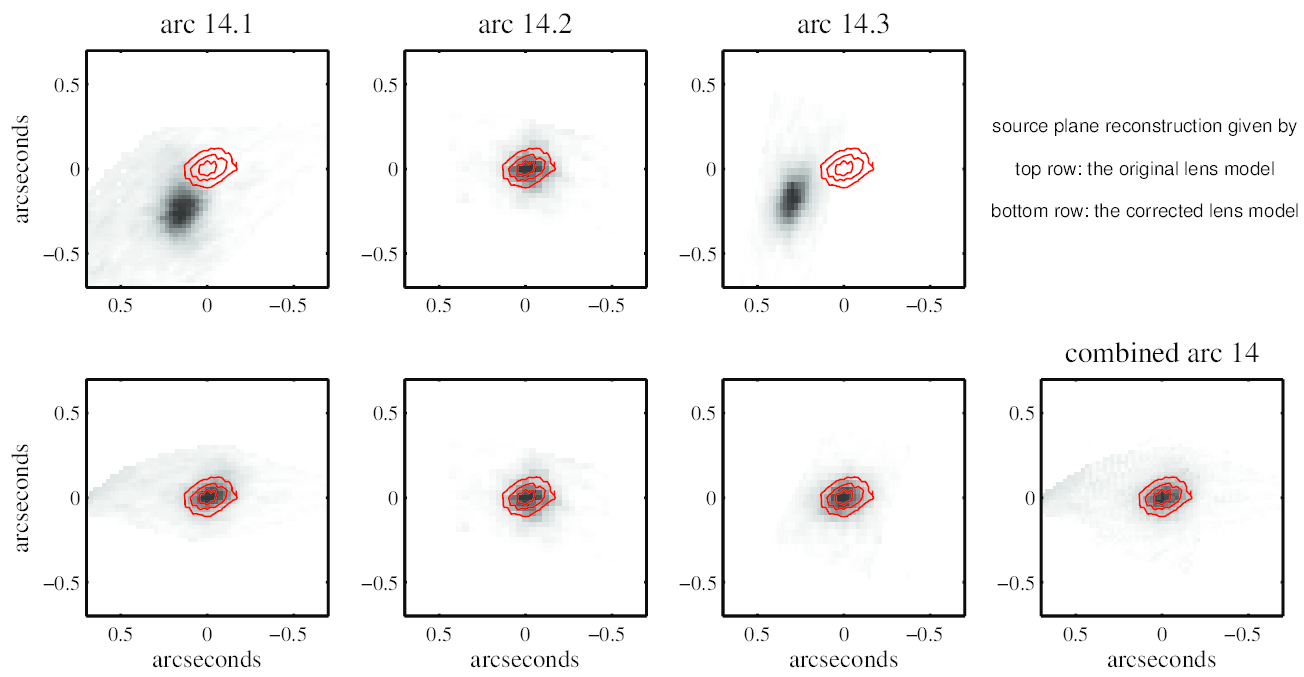
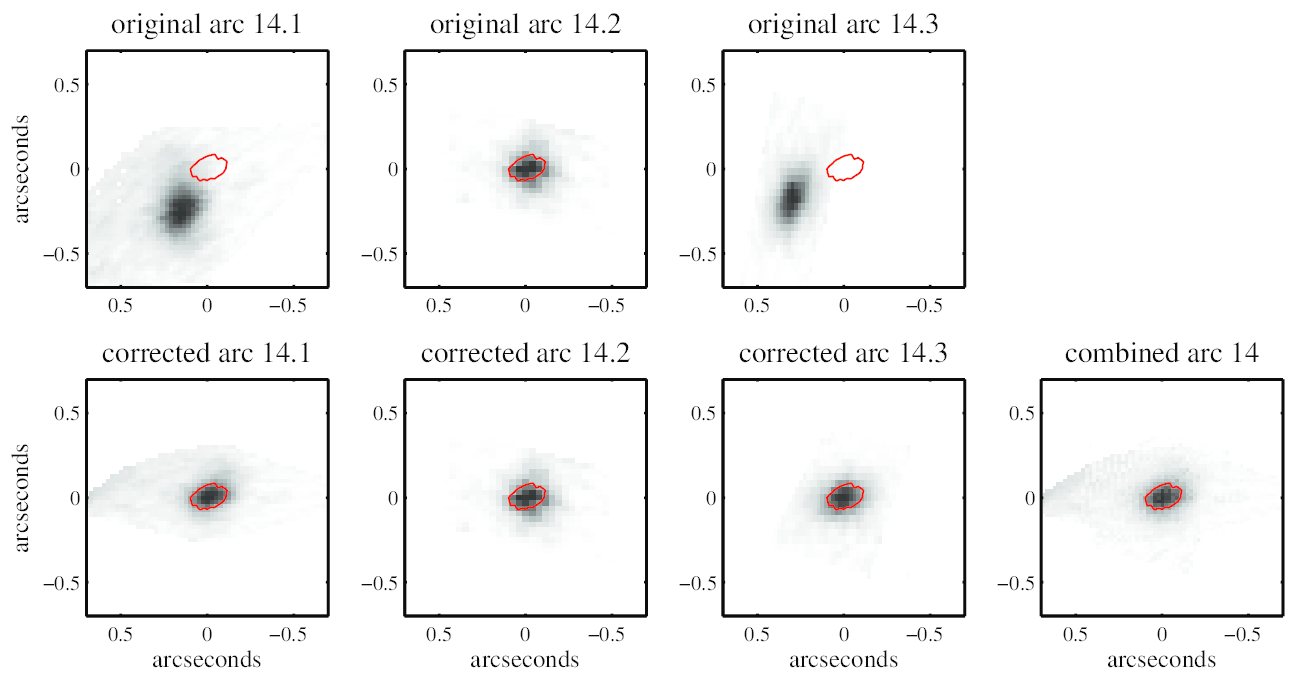
update the 2row plot

diff --git a/cl01.MACS0717/srcpix_durows.m b/cl01.MACS0717/srcpix_durows.m
@@ -14,7 +14,7 @@ mat_dir= 'z1.855_sharon_deflect';      % the folder containing .mat files
 mat_extsn='_deflect.mat';
 corrdefl_dir=  'CorrDefl_imgF140W_z1.855_sharon/durows';
 diary(fullfile(corrdefl_dir,[sys,'_durows_fin.diary']));
-pic_name=[sys '_durows_fin.ps'];
+pic_name=[sys '_durows_fin.eps'];
 
 LMtot = importdata('z1.855_sharon_LMkgphi.dat', ' ', 2);
 LMvals = LMtot.data(:,2:end);
@@ -114,6 +114,7 @@ axis xy
 colorbar('off')
 colormap(flipud(gray))
 xlabel('arcseconds','FontSize',lab_fontsize);
+title(['corrected arc ',sys,'.',num2str(num)]);
 set(gca,'FontSize',axes_fontsize,'LineWidth',lw_gca,'XDir','Reverse'); 
 axis(axial_range);
 
@@ -123,7 +124,7 @@ imagescwithnan(srcpix0_da,srcpix0_db,srcpix0_SB,jet,[1 1 1],true)
 axis xy
 colorbar('off')
 colormap(flipud(gray))
-title(['arc ',sys,'.',num2str(num)]);
+title(['original arc ',sys,'.',num2str(num)]);
 set(gca,'FontSize',axes_fontsize,'LineWidth',lw_gca,'XDir','Reverse'); 
 axis(axial_range);
 
@@ -196,13 +197,14 @@ srcpix1_SB= src_cnt_pix./times_pix;
 srcpix1_da= vec_a-ref_a;
 srcpix1_db= vec_b-ref_b;
 
-%------------ sub-plotting
+%------------ sub-plotting      post
 subplot(2,num_colm,num+num_colm);
 imagescwithnan(srcpix1_da,srcpix1_db,srcpix1_SB,jet,[1 1 1],true)
 axis xy
 colorbar('off')
 colormap(flipud(gray))
 xlabel('arcseconds','FontSize',lab_fontsize);
+title(['corrected arc ',sys,'.',num2str(num)]);
 set(gca,'FontSize',axes_fontsize,'LineWidth',lw_gca,'XDir','Reverse'); 
 axis(axial_range);
 
@@ -233,13 +235,13 @@ srcpix1_SB= src_cnt_pix./times_pix;
 srcpix1_da= vec_a-ref_a;
 srcpix1_db= vec_b-ref_b;
 
-%------------ sub-plotting
+%------------ sub-plotting      pre
 subplot(2,num_colm,num);
 imagescwithnan(srcpix1_da,srcpix1_db,srcpix1_SB,jet,[1 1 1],true)
 axis xy
 colorbar('off')
 colormap(flipud(gray))
-title(['arc ',sys,'.',num2str(num)]);
+title(['original arc ',sys,'.',num2str(num)]);
 set(gca,'FontSize',axes_fontsize,'LineWidth',lw_gca,'XDir','Reverse'); 
 axis(axial_range);
 
@@ -312,7 +314,7 @@ srcpix2_SB = src_cnt_pix./times_pix;
 srcpix2_da= vec_a-ref_a;
 srcpix2_db= vec_b-ref_b;
 
-%------------ sub-plotting
+%------------ sub-plotting      post
 subplot(2,num_colm,num+num_colm);
 imagescwithnan(srcpix2_da,srcpix2_db,srcpix2_SB,jet,[1 1 1],true)
 axis xy
@@ -320,11 +322,12 @@ colorbar('off')
 colormap(flipud(gray))
 xlabel('arcseconds','FontSize',lab_fontsize);
 ylabel('arcseconds','FontSize',lab_fontsize);
+title(['corrected arc ',sys,'.',num2str(num)]);
 set(gca,'FontSize',axes_fontsize,'LineWidth',lw_gca,'XDir','Reverse'); 
 axis(axial_range);
 
 %-------------------------------------------------------------------------------
-% the following subsection is for post-tweak img
+% the following subsection is for pre-tweak img
 src_a=src0_a;
 src_b=src0_b;
 [vec_a,N_a]=MakeVecCtr(src_a,src_ctr(num,1),binsize_a);
@@ -350,14 +353,14 @@ srcpix2_SB = src_cnt_pix./times_pix;
 srcpix2_da= vec_a-ref_a;
 srcpix2_db= vec_b-ref_b;
 
-%------------ sub-plotting
+%------------ sub-plotting      pre
 subplot(2,num_colm,num);
 imagescwithnan(srcpix2_da,srcpix2_db,srcpix2_SB,jet,[1 1 1],true)
 axis xy
 colorbar('off')
 colormap(flipud(gray))
 ylabel('arcseconds','FontSize',lab_fontsize);
-title(['arc ',sys,'.',num2str(num)]);
+title(['original arc ',sys,'.',num2str(num)]);
 set(gca,'FontSize',axes_fontsize,'LineWidth',lw_gca,'XDir','Reverse'); 
 axis(axial_range);
 
@@ -430,37 +433,38 @@ axis(axial_range);
 %% over-plottiong SB isophote contours on every panel except the one of # num_colm
 da_up=2; db_up=2;
 sb_isophote=[75, 120, 170];
-sb_contour1=contourc(srcpix_tot_da,srcpix_tot_db,srcpix_tot_SB,[sb_isophote(1) sb_isophote(1)]);
+% sb_contour1=contourc(srcpix_tot_da,srcpix_tot_db,srcpix_tot_SB,[sb_isophote(1) sb_isophote(1)]);
 sb_contour2=contourc(srcpix_tot_da,srcpix_tot_db,srcpix_tot_SB,[sb_isophote(2) sb_isophote(2)]);
-sb_contour3=contourc(srcpix_tot_da,srcpix_tot_db,srcpix_tot_SB,[sb_isophote(3) sb_isophote(3)]);
-indx1=find(sb_contour1(1,:)<da_up & sb_contour1(2,:)<db_up);
+% sb_contour3=contourc(srcpix_tot_da,srcpix_tot_db,srcpix_tot_SB,[sb_isophote(3) sb_isophote(3)]);
+% indx1=find(sb_contour1(1,:)<da_up & sb_contour1(2,:)<db_up);
 indx2=find(sb_contour2(1,:)<da_up & sb_contour2(2,:)<db_up);
-indx3=find(sb_contour3(1,:)<da_up & sb_contour3(2,:)<db_up);
+% indx3=find(sb_contour3(1,:)<da_up & sb_contour3(2,:)<db_up);
 
 for j=1:num_colm*2
     if j~=num_colm
         subplot(2,num_colm,j);
         hold on
-        plot(sb_contour1(1,indx1),sb_contour1(2,indx1),solid{2},'LineWidth',lw3)
+%         plot(sb_contour1(1,indx1),sb_contour1(2,indx1),solid{2},'LineWidth',lw3)
         plot(sb_contour2(1,indx2),sb_contour2(2,indx2),solid{2},'LineWidth',lw3)
-        plot(sb_contour3(1,indx3),sb_contour3(2,indx3),solid{2},'LineWidth',lw3)
+%         plot(sb_contour3(1,indx3),sb_contour3(2,indx3),solid{2},'LineWidth',lw3)
         hold off
     end
 end
 
-subplot(2,num_colm,num_colm*2);
-hold on
-text(0.1,2.2,'source plane reconstruction given by','HorizontalAlignment','center','FontSize',9)
-text(0.1,1.95,'top row: the original lens model','HorizontalAlignment','center','FontSize',9)
-text(0.1,1.7,'bottom row: the corrected lens model','HorizontalAlignment','center','FontSize',9)
-hold off
+% subplot(2,num_colm,num_colm*2);       so sad I spent some time tuning this
+% hold on
+% text(0.1,2.2,'source plane reconstruction given by','HorizontalAlignment','center','FontSize',9)
+% text(0.1,1.95,'top row: the original lens model','HorizontalAlignment','center','FontSize',9)
+% text(0.1,1.7,'bottom row: the corrected lens model','HorizontalAlignment','center','FontSize',9)
+% hold off
 
 %% end-up work for the figure
 tightfig(h);
 set(gcf, 'PaperUnits','inches');
 set(gcf, 'PaperPosition',[ 0 0 9 4.5]);
 
-print(h,'-dpsc2',fullfile(corrdefl_dir,pic_name));
+% print(h,'-dpsc2',fullfile(corrdefl_dir,pic_name));
+print(h,'-depsc2',fullfile(corrdefl_dir,pic_name));
 toc
 diary off
 
